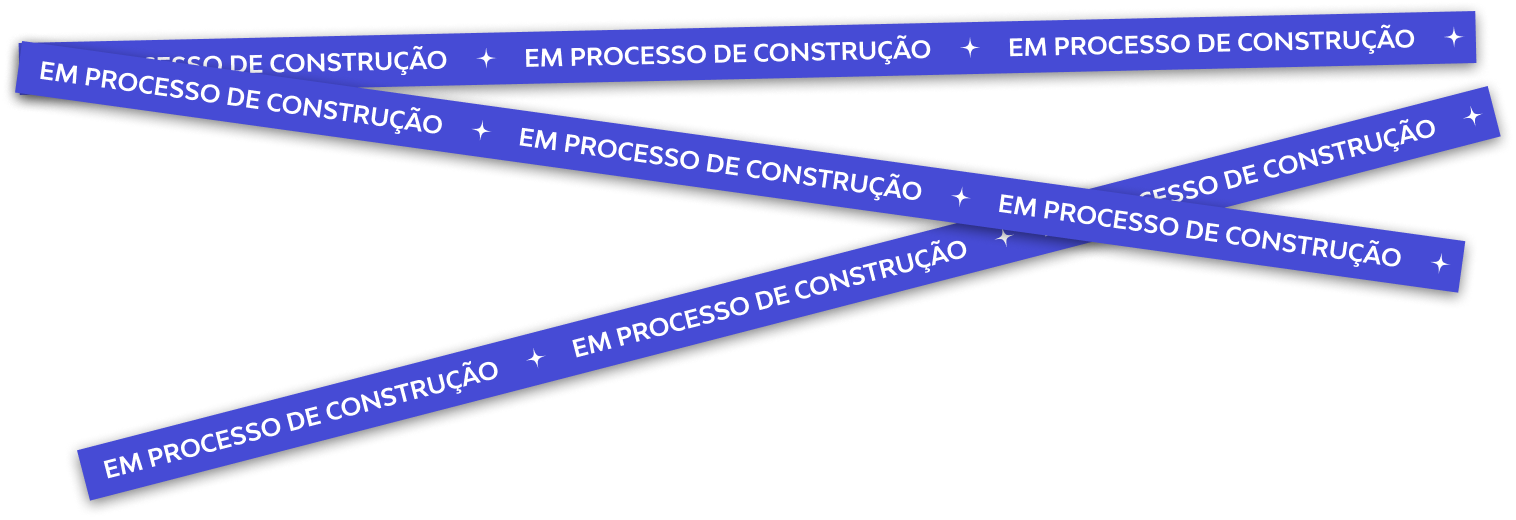
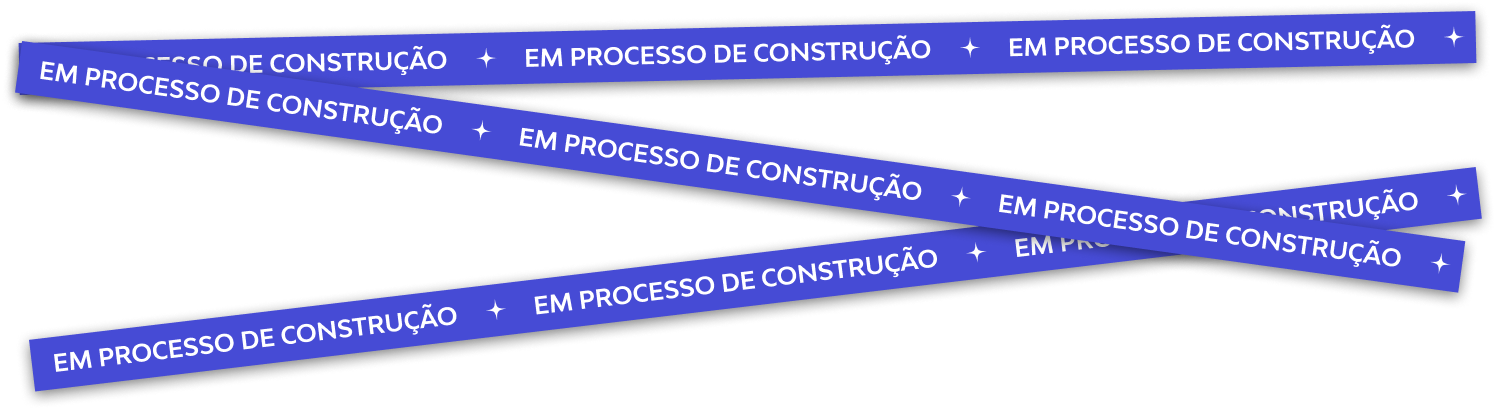
fix: fillet wip replaced

diff --git a/src/components/CardProject.tsx b/src/components/CardProject.tsx
@@ -13,8 +13,8 @@ export interface CardProps {
 export function CardProjects({ title, description, image, frameworks }: CardProps) {
   return (
     <section className="relative rounded-xl bg-slate-100 w-11/12 text-slate-950 lg:flex lg:h-[280px] lg:max-w-5xl">
-      <div className="w-9 h-9 dark:bg-zinc-900 bg-slate-100 rounded-full absolute -top-2 left-1/2 transform -translate-x-1/2 -translate-y-1/2 md:-top-1 lg:top-1/2 lg:left-0"></div>
-      <div className="w-9 h-9 dark:bg-zinc-900 bg-slate-100 rounded-full absolute -bottom-2 left-1/2 transform -translate-x-1/2 translate-y-1/2 md:-bottom-1 lg:top-1/2 lg:right-0 lg:-translate-y-1/2 lg:translate-x-1/2 lg:left-auto"></div>
+      <div className="w-9 h-9 dark:bg-zinc-900 bg-zinc-300 rounded-full absolute -top-2 left-1/2 transform -translate-x-1/2 -translate-y-1/2 md:-top-1 lg:top-1/2 lg:left-0"></div>
+      <div className="w-9 h-9 dark:bg-zinc-900 bg-zinc-300 rounded-full absolute -bottom-2 left-1/2 transform -translate-x-1/2 translate-y-1/2 md:-bottom-1 lg:top-1/2 lg:right-0 lg:-translate-y-1/2 lg:translate-x-1/2 lg:left-auto"></div>
 
       <div className="relative p-3 md:p-7 lg:p-4 lg:flex lg:justify-center">
         <img src={image} alt="imagem do projeto" className="rounded-md 2xl:object-cover" />
@@ -26,14 +26,14 @@ export function CardProjects({ title, description, image, frameworks }: CardProp
       </div>
 
       <div className="relative w-full my-2 md:my-1 h-2 lg:hidden">
-        <div className="w-3 h-3 dark:bg-zinc-900 bg-slate-100 rounded-full absolute top-1/2 left-0 transform -translate-x-1/2 -translate-y-[40%] z-10"></div>
-        <div className="w-3 h-3 dark:bg-zinc-900 bg-slate-100 rounded-full absolute top-1/2 right-0 transform translate-x-1/2 -translate-y-[40%] z-10"></div>
+        <div className="w-3 h-3 dark:bg-zinc-900 bg-zinc-300 rounded-full absolute top-1/2 left-0 transform -translate-x-1/2 -translate-y-[40%] z-10"></div>
+        <div className="w-3 h-3 dark:bg-zinc-900 bg-zinc-300 rounded-full absolute top-1/2 right-0 transform translate-x-1/2 -translate-y-[40%] z-10"></div>
         <div className="w-full h-[1px] border-t-1  border-dashed border-[1px] border-gray-500 absolute top-1/2 transform -translate-x-1 translate-y-1/2"></div>
       </div>
 
       <div className="hidden relative lg:block w-2 h-full">
-        <div className="w-3 h-3 dark:bg-zinc-900 bg-slate-100 rounded-full absolute -top-0 transform -translate-x-1/2 -translate-y-1/2 z-10"></div>
-        <div className="w-3 h-3 dark:bg-zinc-900 bg-slate-100 rounded-full absolute -bottom-0 transform -translate-x-1/2 translate-y-1/2 z-10"></div>
+        <div className="w-3 h-3 dark:bg-zinc-900 bg-zinc-300 rounded-full absolute -top-0 transform -translate-x-1/2 -translate-y-1/2 z-10"></div>
+        <div className="w-3 h-3 dark:bg-zinc-900 bg-zinc-300 rounded-full absolute -bottom-0 transform -translate-x-1/2 translate-y-1/2 z-10"></div>
         <div className="w-[1px] h-full border-l-1 border-dashed border-[1px] border-gray-500 "></div>
       </div>
 

diff --git a/src/sections/Projects.tsx b/src/sections/Projects.tsx
@@ -8,7 +8,7 @@ export function Projects() {
       <AreaWIP />
       <div className="blur-md">
         <div className="flex flex-col lg:flex-row pb-8 px-8 justify-between">
-          <div className="text-3xl lg:text-5xl font-Modelica02B text-center lg:text-left mb-6">
+          <div className="text-3xl lg:text-5xl lg:pl-16 font-Modelica02B text-center lg:text-left mb-6">
             <h3>Projetos</h3>
             <h3>Desenvolvidos</h3>
           </div>

diff --git a/src/components/AreaWIP.tsx b/src/components/AreaWIP.tsx
@@ -2,8 +2,8 @@ import fillet from '../assets/fillet.png';
 
 export function AreaWIP() {
   return (
-    <div className="w-full h-full absolute overflow-hidden z-10">
-      <img src={fillet} alt="" className="scale-150 py-60" />
+    <div className="w-full h-full absolute overflow-hidden z-30">
+      <img src={fillet} alt="" className="scale-150 py-60 lg:scale-110 lg:py-[2%]" />
     </div>
   );
 }
